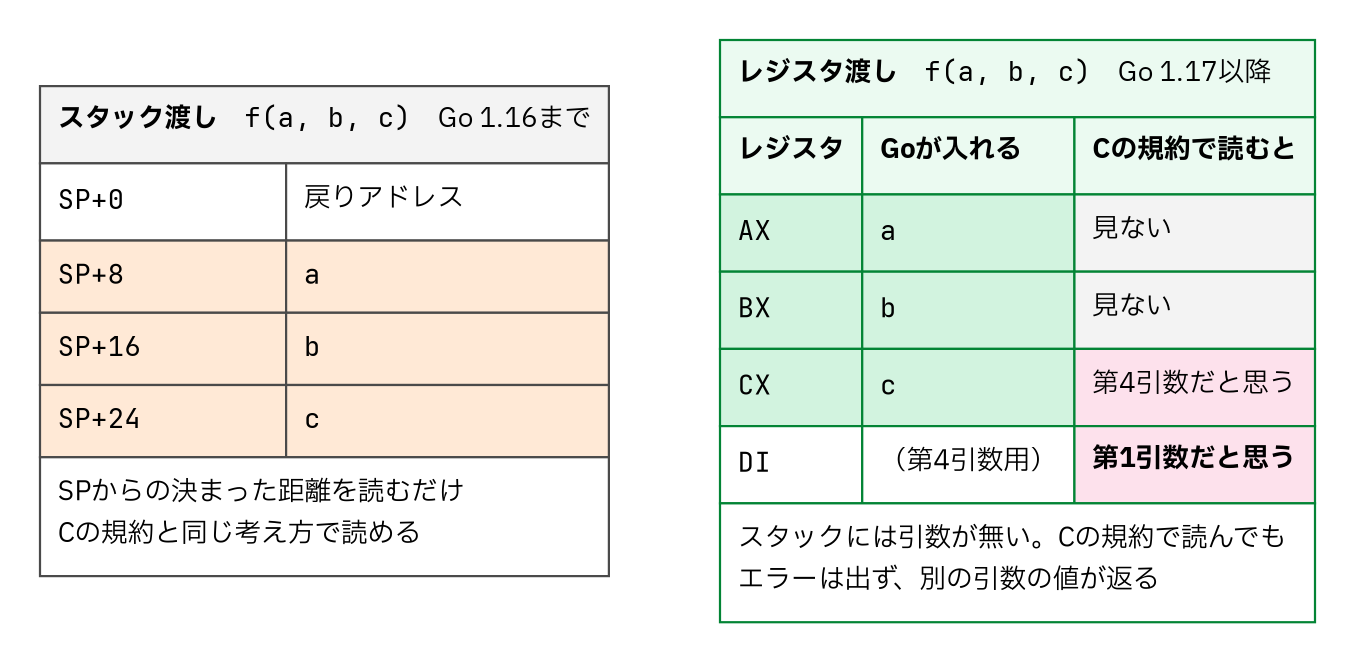
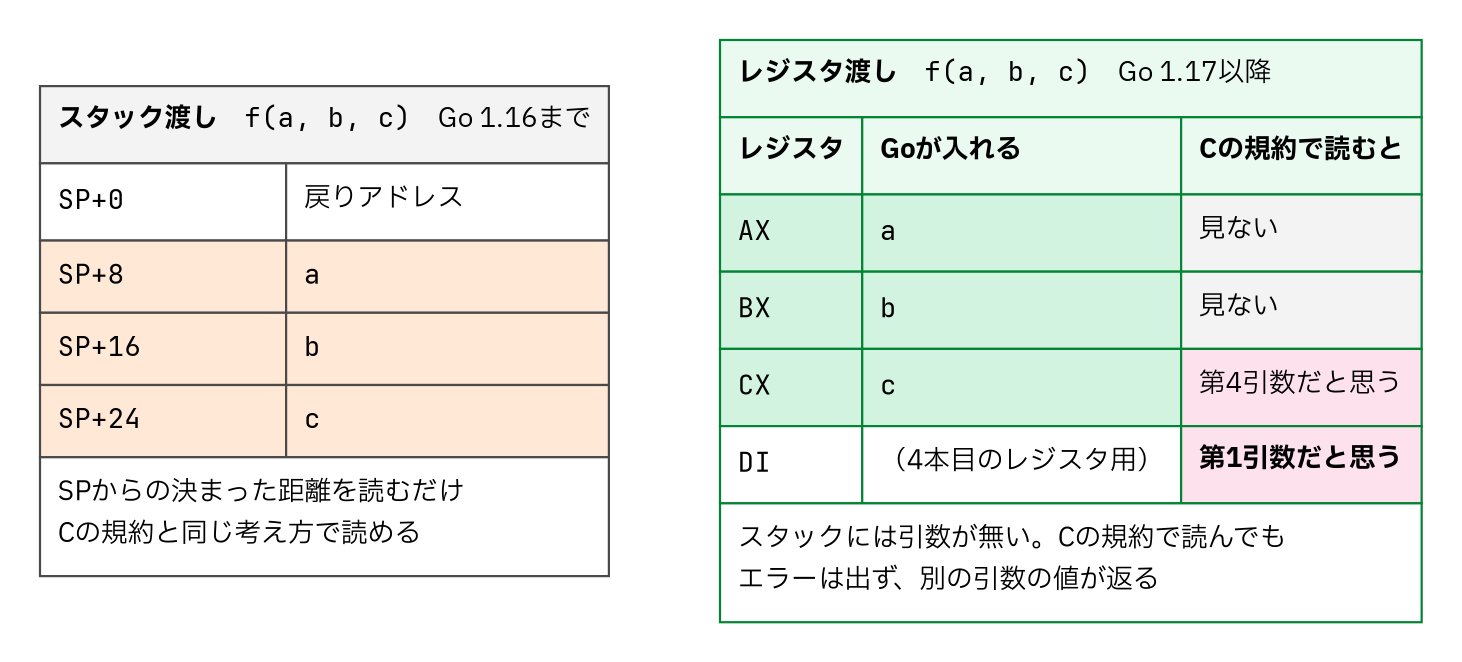
fix(go-ebpf-primer): 本文の修正に合わせて図版4点を更新

diff --git a/books/go-ebpf-primer/20-function_call.md b/books/go-ebpf-primer/20-function_call.md
@@ -104,7 +104,7 @@ $ go tool objdump -s 'main\.double$' demo
 プラットフォームには標準の呼び出し規約があり、Linuxのamd64ならCのプログラムはみなそれに従います。外から観測する道具も、当然その標準を前提に作られています。Goがこの標準に従っていないことが、難所2の主題になります。
 
 ![スタック渡しとレジスタ渡し](/images/20260911-convention-stack-vs-register.png)
-*図3: 同じ `f(a, b, c)` の呼び出しでも、規約によって引数の置き場所が変わる。スタック渡しでは `CALL` が積んだ戻りアドレスの先、`SP+8` から引数が並ぶ。レジスタ渡しではスタックに引数が無く、Cの規約を前提に読むと第1引数として `RDI` を見るので、Goが第4引数用に使っているレジスタの値が返る。エラーにはならず、別の引数の値が読めてしまう。*
+*図3: 同じ `f(a, b, c)` の呼び出しでも、規約によって引数の置き場所が変わる。スタック渡しでは `CALL` が積んだ戻りアドレスの先、`SP+8` から引数が並ぶ。レジスタ渡しではスタックに引数が無く、Cの規約を前提に読むと第1引数として `RDI` を見るので、Goが4本目のレジスタとして使っているものの値が返る。エラーにはならず、別の引数の値が読めてしまう。*
 
 ## インライン展開
 
